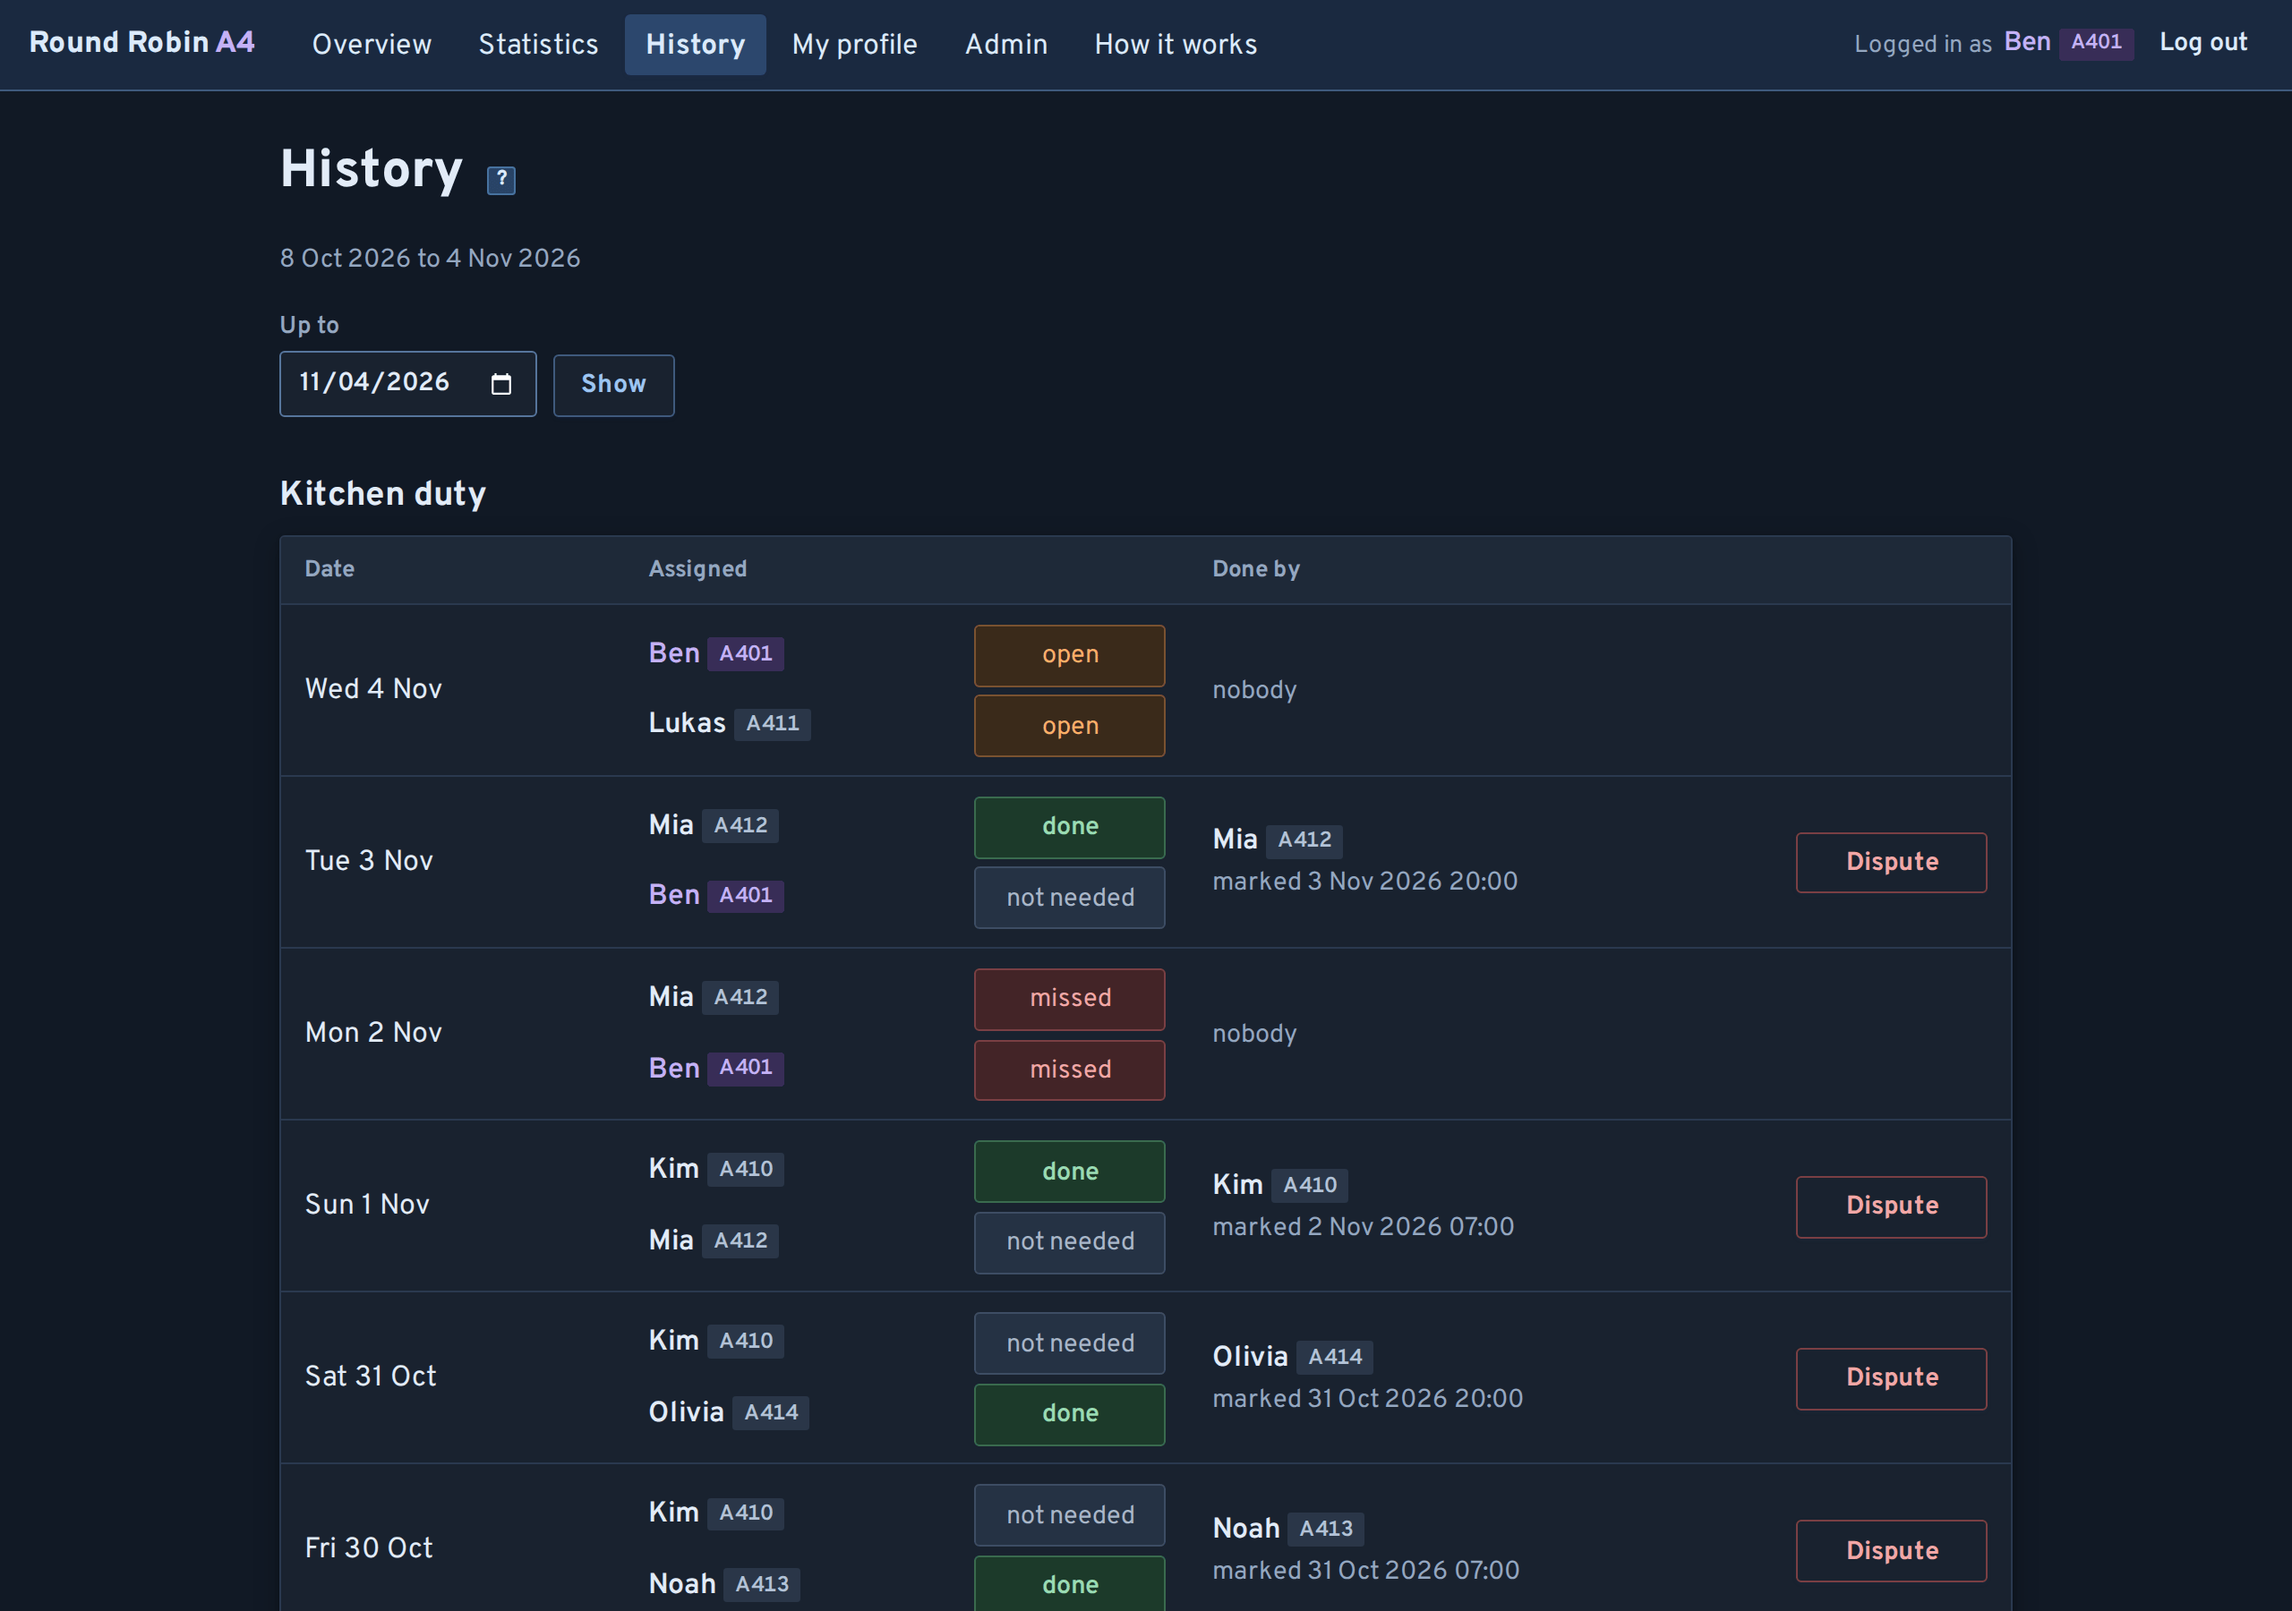
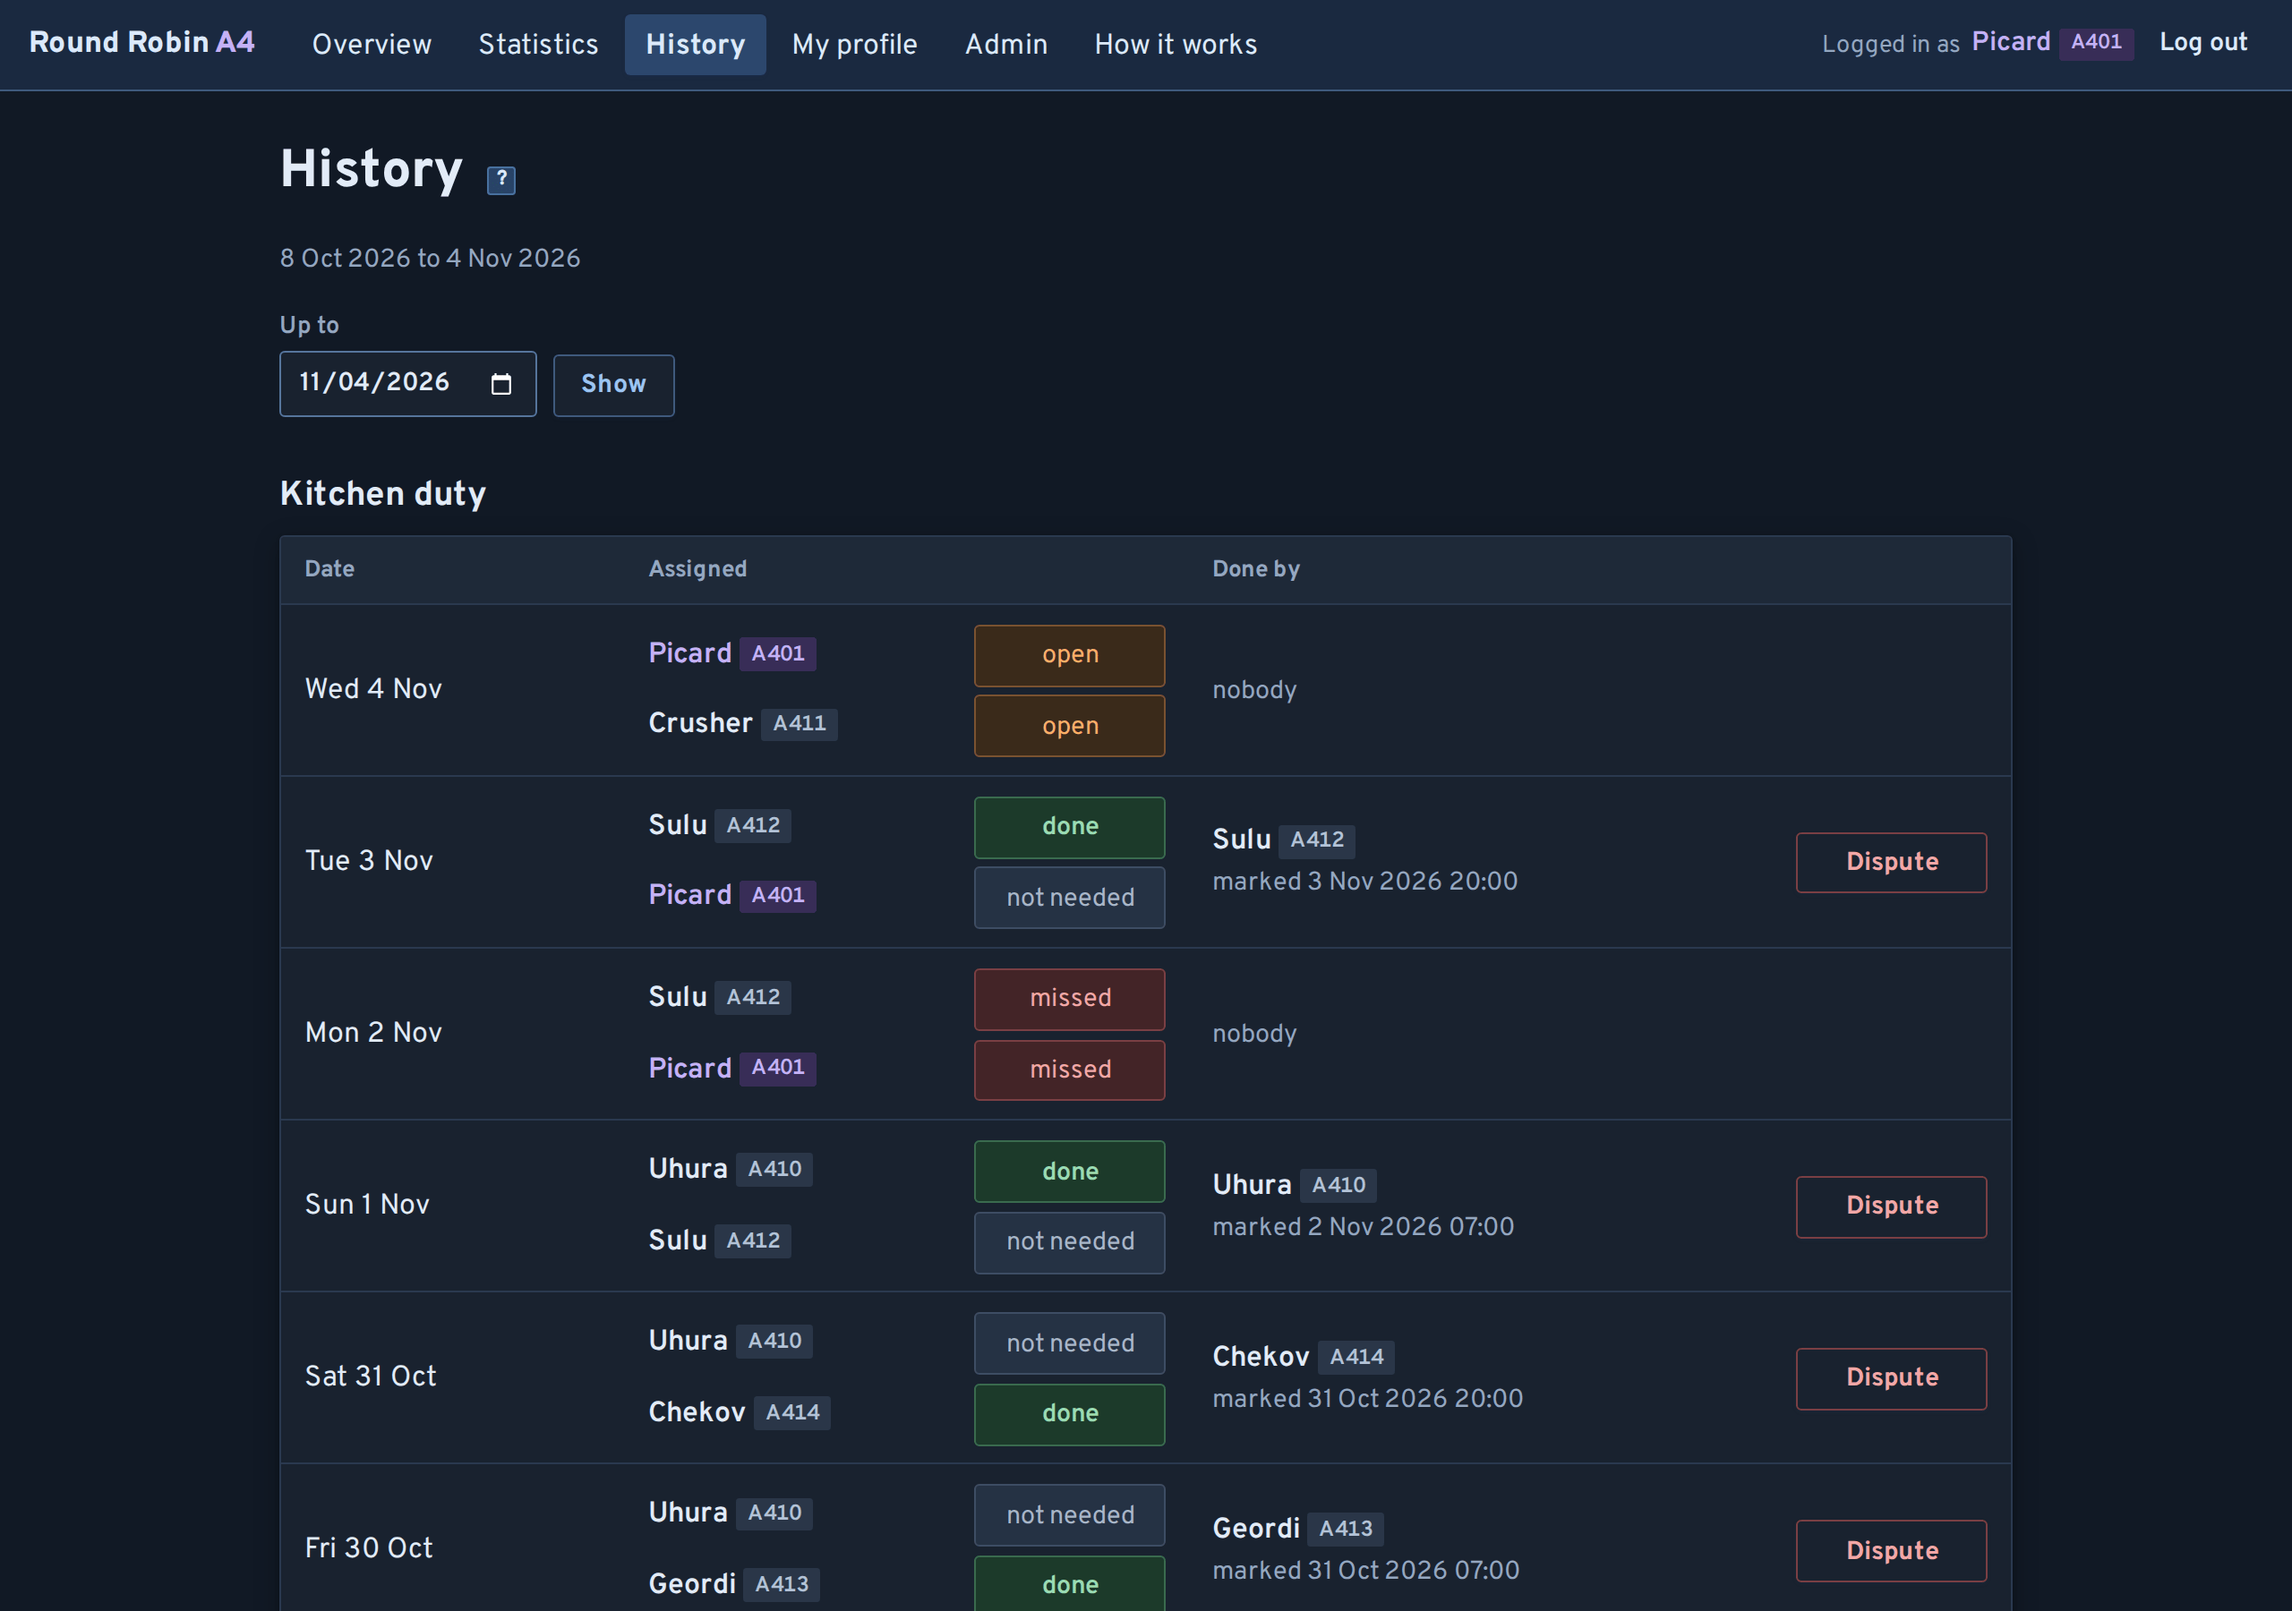
Name the test residents after Star Trek characters
Nicknames from TOS and TNG, so no test resident shares a name with a real
resident. Retake the README screenshots with them.

diff --git a/scripts/seed.py b/scripts/seed.py
@@ -4,7 +4,7 @@
     uv run python scripts/seed.py -n 20 --password test1234
     uv run python scripts/seed.py --days 30        # plus a simulated month of duties
 
-Usernames are the lowercase first names; existing usernames are skipped, so it is
+Usernames are the lowercase names; existing usernames are skipped, so it is
 safe to run more than once. Current trips that nobody has driven yet get their
 potential drivers chosen again, so everyone rides along (on startup the app may have
 created them while only the floor speaker existed). Afterwards today's duties are assigned.
@@ -35,14 +35,11 @@ from app.models import Duty, PotentialDriver, Status, Strike, Trip, User  # noqa
 from app.services import duties, jobs, users  # noqa: E402
 
 # fmt: off
-FIRST_NAMES = [
-    "Ben", "Clara", "David", "Emma", "Felix", "Greta", "Hannes", "Ida", "Jonas",
-    "Kim", "Lukas", "Mia", "Noah", "Olivia", "Paul", "Quinn", "Rosa", "Simon", "Tara",
-    "Uwe", "Vera", "Wim", "Xenia", "Yusuf", "Zoe",
-]
-LAST_NAMES = [
-    "Müller", "Schmidt", "Schneider", "Fischer", "Weber", "Meyer", "Wagner", "Becker",
-    "Schulz", "Hoffmann", "Koch", "Richter", "Klein", "Wolf", "Neumann", "Schwarz",
+# Star Trek (TOS and TNG) nicknames, so no test resident shares a real resident's name
+NAMES = [
+    "Picard", "Kirk", "Riker", "Spock", "Data", "McCoy", "Worf", "Scotty", "Troi", "Uhura",
+    "Crusher", "Sulu", "Geordi", "Chekov", "Yar", "Guinan", "Chapel", "Wesley", "Rand",
+    "Barclay", "Pike", "Pulaski", "Sarek", "Ro", "Lwaxana",
 ]
 # fmt: on
 
@@ -178,8 +175,8 @@ async def simulate(session: AsyncSession, days: int, rng: random.Random) -> None
 
 
 async def main(count: int, password: str, days: int, seed: int | None) -> None:
-    if count > len(FIRST_NAMES):
-        sys.exit(f"At most {len(FIRST_NAMES)} residents supported")
+    if count > len(NAMES):
+        sys.exit(f"At most {len(NAMES)} residents supported")
     async with SessionLocal() as session:
         reset = await reset_open_trips(session, settings.today())
         if days and await session.scalar(select(func.count(Trip.id))):
@@ -187,13 +184,13 @@ async def main(count: int, password: str, days: int, seed: int | None) -> None:
         existing = set(await session.scalars(select(User.username)))
         added = 0
         for i in range(count):
-            first = FIRST_NAMES[i]
-            username = first.lower()
+            name = NAMES[i]
+            username = name.lower()
             if username in existing:
                 continue
             await users.create(
                 session,
-                name=f"{first} {LAST_NAMES[i % len(LAST_NAMES)]}",
+                name=name,
                 room_number=f"A4{i + 1:02d}",
                 username=username,
                 password=password,
